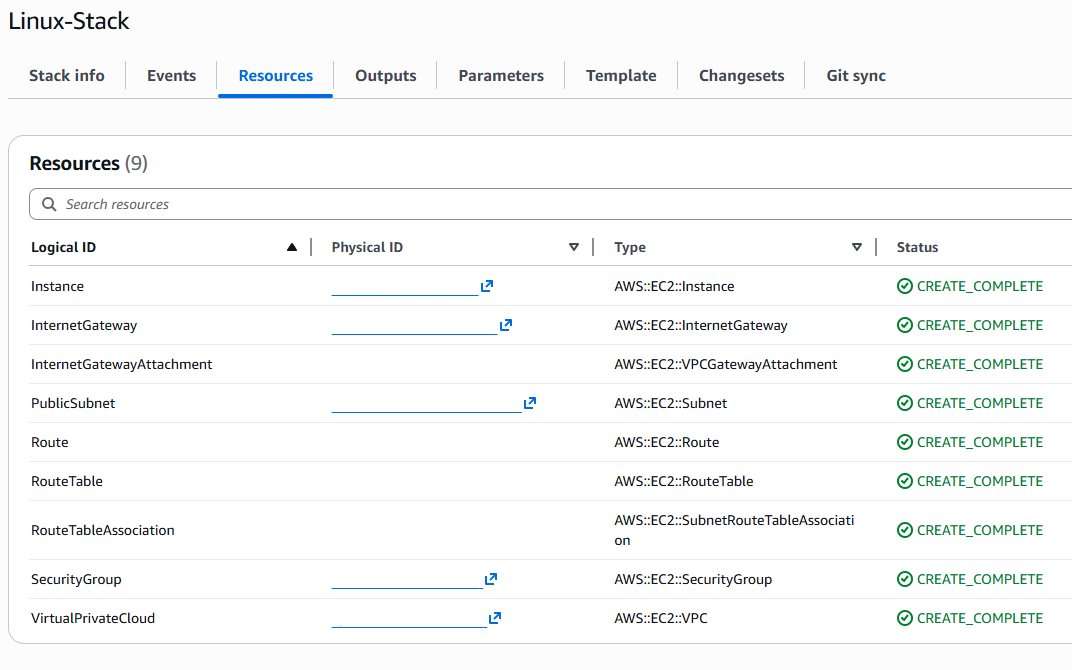
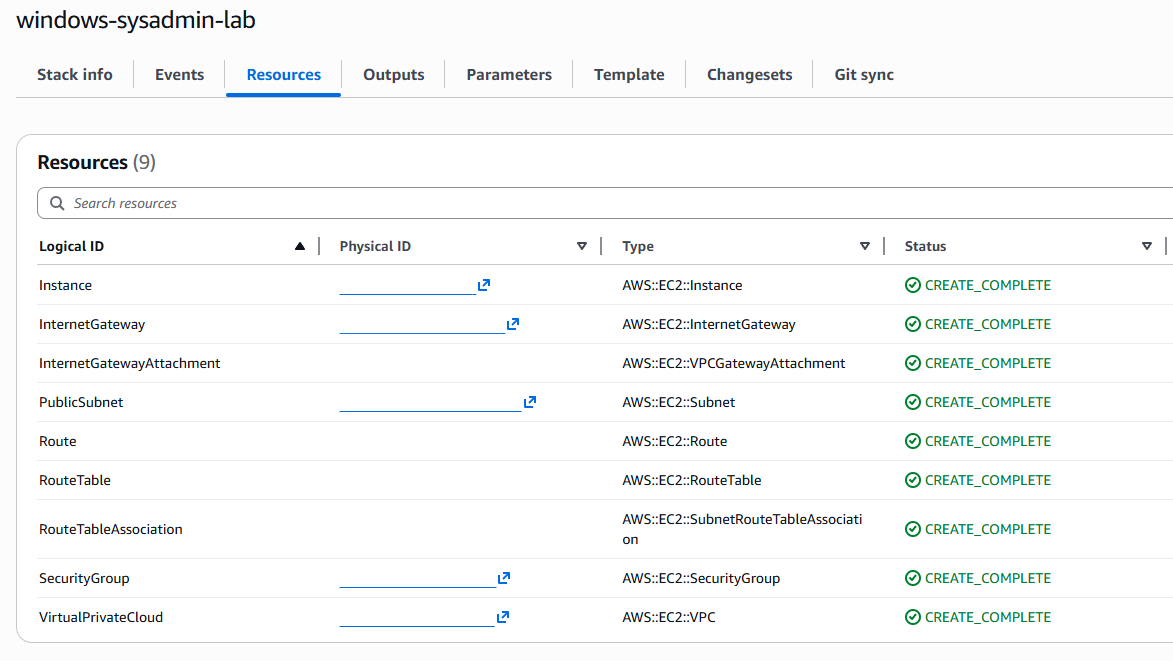
Revert "Linux troubleshooting repo created"
This reverts commit 13dcd3388244b42576f5b282267320f1bd75d4d4.

diff --git a/README.md b/README.md
@@ -1,74 +1,83 @@
-# Linux SysAdmin Lab (AWS EC2)
+# Windows SysAdmin Lab (AWS EC2)
 
 ## Overview
-Single-instance Linux 2023 6.1 EC2 lab demonstrating troubleshooting and automation.
+Single-instance Windows Server 2025 EC2 lab demonstrating troubleshooting and automation.
 
 ## Architecture
-- AWS EC2 t2.micro instance
-- Security Group: SSH 22, HTTP 80
+- AWS EC2 t3.small instance
+- Security Group: RDP 3389, HTTP 80
 
-architecture-diagram PLACEHOLDER
-![architecture-diagram](infrastructure/linux-sysadmin-lab-architecture.png)
+![architecture-diagram](infrastructure/windows-sysadmin-lab-architecture.png)
 
 ## CloudFormation Deployment
 
 You may also deploy this architecture using the [main.yaml](/infrastructure/main.yaml) template file in [/infrastructure](/infrastructure/).
 
-![cloudformation_test1.png](screenshots/cloudformation_test1.png)
+![cloudformation](screenshots/cloudformation_test1.png)
 
-Before deploying the stack, make sure to create a key pair so you can access the instance via SSH.
+Before deploying the stack, make sure to create a key pair so you can access the instance via RDP.
 
 Once deployed, connect to the instance and configure the following:
+- Update Windows
+- Install IIS:
 ```
-sudo yum install httpd -y 
-sudo systemctl start httpd
-sudo systemctl enable httpd
+Install-WindowsFeature -name Web-Server -IncludeManagementTools
+```
+- Create Test Web Page:
+```
+Set-Content -Path "C:\inetpub\wwwroot\index.html" -Value "<h1>Windows Lab Server</h1><p>Healthy</p>"
+```
+- Verify Firewall:
+```
+netsh advfirewall firewall add rule name="Allow HTTP" dir=in action=allow protocol=TCP localport=80
 ```
 
 **Make sure to delete the stack once finished to minimise costs.**
 
 ## Incidents Simulated
-### Incident 1 - Web Server Failure
+### Incident 1 - IIS Service Failure
 
-![linux_issue1](screenshots/linux_issue1.png)
+![issue1](screenshots/windows_issue1.png)
 
 **Symptoms:** HTTP site inaccessible  
-**Diagnosis:** sudo systemctl status httpd shows stopped  
-**Resolution:** sudo systemctl start httpd  
-**Verification:** Site accessible once again  
+**Diagnosis:** `Get-Service W3SVC` showed stopped  
+**Resolution:** `Start-Service W3SVC`  
+**Verification:** Site restored (`http://localhost`)  
 
 ### Incident 2 - Low Disk Space
 
-![linux_issue2](screenshots/linux_issue2.png)
+![issue2](screenshots/windows_issue2.png)
 
-**Symptoms:** Disk warning / files not saving   
-**Diagnosis:**  df -h / shows 100% disk utilisation  
-**Resolution:**  sudo rm to remove large files  
-**Verification:** df -h / 6.4G of available space  
+**Symptoms:** Disk warning / files not saving  
+**Diagnosis:** `Get-PSDrive C` showed < 5 GB free  
+**Resolution:** Removed large files  
+**Verification:** Disk usage normalised  
 
-### Incident 3 - Memory Pressure / Swap Configuration
+### Incident 3 - Disabled Account
 
-![linux_issue3](screenshots/linux_issue3.png)
+![issue3](screenshots/windows_issue3.png)
 
-**Symptoms:** Sluggish performance, SSH lag   
-**Diagnosis:** top, free -h, vmstat commands  
-**Resolution:** created and enabled 1 GB swap file  
-**Verification:** system responsive, swap active  
+**Symptoms:** Login failure for TestUser  
+**Diagnosis:** `Get-LocalUser TestUser` → Disabled = True  
+**Resolution:** `Enable-LocalUser TestUser`  
+**Verification:** Login success  
 
 ## Automation
-WIP PLACEHOLDER
+- `windows_iis_check.ps1` - Restarts IIS if stopped  
+- `windows_disk_check.ps1` - Logs low-disk alerts  
 
 ### Optional scheduled scripts for hourly checks:
-WIP PLACEHOLDER
+- `windows_scheduled_iis_check.ps1` - Restarts IIS if stopped  
+- `windows_scheduled_disk_check.ps1` - Logs low-disk alerts  
 
 ## Skills Demonstrated
-- Linux Instance Administration & Troubleshooting  
-- Bash Automation  
+- Windows Server Administration & Troubleshooting  
+- PowerShell Automation  
 - AWS EC2 Management  
 - Incident Diagnosis and Documentation
 - CloudFormation Templating & Deployment  
 
 ## Next Steps
-- Automation/Scripts
+- Improve ReadMe instructions
 - CloudWatch monitoring
 - SNS alerting
